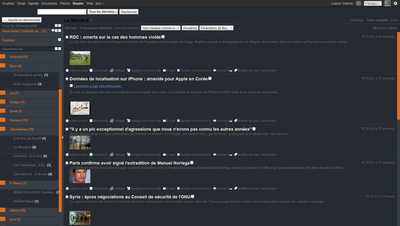
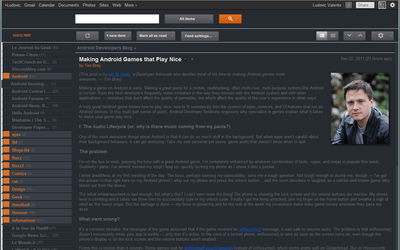
metro

diff --git a/GoogleReaderPlus/src/skin/metro.js b/GoogleReaderPlus/src/skin/metro.js
@@ -8,30 +8,6 @@ Author: ludoo
 Date : 08/03/11
 */
 GRP.metro = function(prefs, langs, ID, SL, lang) {
-	var css = '*{font-family:Segoe, Helvetica, sans-serif!important}';
-	css += '.scroll-tree .icon, .scroll-tree .favicon{display:none;}';
-	css += 'body,span.name, span.name-text, .scroll-tree li a.name-unread{color:#F1EFE2!important;}';
-	css += 'li.folder > a.link{background-color: #373E46;}';
-	css += 'li.folder > a.link .name, li.folder > a.link span.name-text{color:#de6f28 ! important;}';
-	css += '.scroll-tree li a {padding-bottom: 15px;border-bottom: solid 1px #151a20;border-top: solid 1px #44494f;}';
-	css += '.scroll-tree li a:hover, #lhn-selectors .selector:hover{background-color: #373E46!important;}';
-	css += '.scroll-tree .toggle{background: #de6f28;}';
-	css += '.entry {padding:0 !important;}';
-	css += '#chrome {border-left: 0px;}';
-	css += '.entry, #viewer-top-controls, #entries.list .entry {border-bottom: solid 1px #151a20 !important;border-top: solid 1px #44494f;}';
-	css += '.entry .card{margin:0;-webkit-border-radius: none;-webkit-box-shadow:none;}';
-	css += '.subscribe-button{background:none;}';
-	css += '::-webkit-scrollbar{width:12px;height:12px}::-webkit-scrollbar-track{background-color:#373e46;}::-webkit-scrollbar-thumb{background-color:#de6f28;-webkit-border-radius:0px;}';
-	css += '#chrome-lhn-toggle, .fullscreen #chrome-fullscreen-top-toggle {background:#373E46;border:0;}';
-	css += '#chrome-lhn-toggle:hover, .fullscreen #chrome-fullscreen-top-toggle:hover {background:#67686C;border:0;}';
-	css += '#chrome-lhn-toggle #chrome-lhn-toggle-icon {border-color: #67686C #F1EFE2 #67686C #67686C;}';
-	css += '#chrome-lhn-toggle:hover #chrome-lhn-toggle-icon {border-color: #F1EFE2 #67686C #F1EFE2 #F1EFE2;}';
-	css += 'body,#chrome-title a, #chrome-title .chevron {color: #67686C;}';
-	css += '#chrome.page-view #viewer-page-container, .tab-contents, .tab-group, .bundle-container {background-color: #262B31;}';
-	css += 'a, a:visited, .link{color:#F1EFE2;}';
-	//new UI
-	css += '.card .card-bottom, #entries.list .entry .entry-actions{padding:0;border:0;}';
-
 /*
 +my theme : 
 text color: #67686C (gray)
@@ -39,11 +15,97 @@ link : Foreground: #F1EFE2 (white)
 author: #de6f28 (orange)
 BackgroundColor: #262B31 ()
 */
+	var C={
+		orange:'#DE6F28',
+		dark_orange: '#CD5A06',
+		white: '#F1EFE2',
+		//button
+		gray:'#67686C',
+		light_gray:'#CCC',
+		dark_gray:'#4D4E51',
+		bg: '#262B31'	
+	}
+	
+	var css = '*{font-family:Segoe, Helvetica, sans-serif!important}';
+	css += '.scroll-tree .icon, .scroll-tree .favicon{display:none;}';
+	css += 'body,span.name, div.name-text, .scroll-tree li a.name-unread{color:'+C.white+'!important;}';
+	css += 'div.name-text{margin-left: 30px;}';
+	css += 'li.folder > a.link{background-color: #373E46;}';
+	css += 'li.folder > a.link .name, li.folder > a.link div.name-text{color:'+C.orange+' ! important;}';
+	css += '.scroll-tree li a {/*padding-bottom: 15px;*/border-bottom: solid 1px #151a20;border-top: solid 1px #44494f;}';
+	css += '.scroll-tree li a:hover, #lhn-selectors .selector:hover{background-color: #373E46!important;}';
+	css += '.scroll-tree .toggle{background:'+C.orange+';}';
+	css += '.entry {padding:0 !important;}';
+	css += '#chrome {border-left: 0px;}';
+//	css += '.entry, #viewer-top-controls, #entries.list .entry {border-bottom: solid 1px #151a20 !important;border-top: solid 1px #44494f;}';
+	css += '.entry .card{margin:0;-webkit-border-radius: none;-webkit-box-shadow:none;}';
+	css += '.subscribe-button{background:none;}';
+	css += '::-webkit-scrollbar{width:12px;height:12px}::-webkit-scrollbar-track{background-color:#373e46;}::-webkit-scrollbar-thumb{background-color:;-webkit-border-radius:0px;}';
+	css += '#chrome-lhn-toggle, .fullscreen #chrome-fullscreen-top-toggle {background:#373E46;border:0;}';
+	css += '#chrome-lhn-toggle:hover, .fullscreen #chrome-fullscreen-top-toggle:hover {background:'+C.gray+';border:0;}';
+	css += '#chrome-lhn-toggle #chrome-lhn-toggle-icon {border-color: '+C.gray+' '+C.white+' '+C.gray+' '+C.gray+';}';
+	css += '#chrome-lhn-toggle:hover #chrome-lhn-toggle-icon {border-color: '+C.white+' '+C.gray+' '+C.white+' '+C.white+';}';
+	css += 'body,#chrome-title a, #chrome-title .chevron {color: '+C.gray+';}';
+	css += '#chrome.page-view #viewer-page-container, .tab-contents, .tab-group, .bundle-container {background-color: #262B31;}';
+	css += 'a, a:visited, .link{color:'+C.white+';}';
+	//new UI
+	css += '.card .card-bottom, #entries.list .entry .entry-actions{padding:0;border:0;}';
+	css += '.jfk-button-primary,.jfk-button-primary.jfk-button-hover{background:transparent;color:'+C.orange+'! important;box-shadow:none;-webkit-box-shadow:none;border:none;}';
+	css += '.jfk-button-primary.jfk-button-hover{font-weight:bold;}';
+
+	css += '.goog-inline-block,.jfk-button-standard {color: white !important;}';
+	css += '.jfk-button-standard, .goog-flat-menu-button, .goog-button-base-inner-box{background-color: '+C.gray+';background-image: -webkit-linear-gradient(top,'+C.gray+','+C.dark_gray+');border: 1px solid '+C.dark_gray+';}';
+	css += '.jfk-button-standard.jfk-button-checked{background-color: '+C.light_gray+' !important;background-image: -webkit-linear-gradient(top,'+C.light_gray+','+C.gray+') !important;border: 1px solid '+C.gray+' !important;}';
+	css += '.goog-flat-menu-button.goog-flat-menu-button-hover, .jfk-button-standard.jfk-button-hover, .jfk-button-standard.jfk-button-clear-outline.jfk-button-hover, .goog-flat-menu-button.goog-flat-menu-button-hover, .goog-button-base:hover .goog-button-base-inner-box{background-color: '+C.gray+';background-image: -webkit-linear-gradient(top,'+C.gray+',#616161);border: 1px solid #6E6F61;color: white !important;}';
+
+	css += '.goog-flat-menu-button.goog-flat-menu-button-open, .goog-flat-menu-button.goog-flat-menu-button-active{background-color: '+C.gray+';background-image: -webkit-linear-gradient(top,'+C.gray+','+C.dark_gray+');border: 1px solid '+C.dark_gray+';}';
+	css += '.goog-flat-menu-button,.goog-flat-menu-button-focused{border-color:'+C.dark_gray+' !important;}';
+	
+	css += '.goog-menu,.gbmc{background-image: -webkit-linear-gradient(top,'+C.gray+','+C.dark_gray+');}';
+	css += '.goog-menuitem-highlight, .goog-menuitem-hover {background-color: '+C.light_gray+';border-color: '+C.light_gray+';}';
+	css += '.goog-menuitem, .goog-tristatemenuitem, .goog-filterobsmenuitem {color: '+C.white+';}';
+	
+	css += '.goog-button-base:hover .goog-button-base-content, .goog-button-base:focus .goog-button-base-content {	color: '+C.white+'}';
+	css += '.goog-button-base-outer-box {border-top: 1px solid '+C.dark_gray+' !important;border-bottom: 1px solid '+C.dark_gray+' !important;}';
+
+	css += '.jfk-button-action {background-color: '+C.orange+';background-image: -webkit-linear-gradient(top,'+C.orange+','+C.dark_orange+');border: 1px solid '+C.dark_orange+';}';
+	css += '.jfk-button-action.jfk-button-hover {background-color: #357AE8;background-image: -webkit-linear-gradient(top,'+C.orange+',#984A17);border: 1px solid #984A17;}';
+	
+	css += '.gbmt, .gbml1, .gbmt:visited, .gbml1:visited {color: '+C.white+' !important;}';
+	css += '.gbmt-hvr, .gbmt:focus {background: '+C.light_gray+'; color: '+C.white+' !important;}';
+	
+	css += '#lhn-selectors .selected a span, #lhn-selectors .selected a:hover span {color: '+C.dark_orange+';}';
+
+var ICONS_PATH = 'http://googlereaderplus.googlecode.com/svn/trunk/GoogleReaderPlus/images/toolbar/white/';
+
+function setIcon(root, img, i){
+	var el = root;
+	if (el && typeof el === 'string'){
+		el = get_id(el);
+	}
+	if (el && (typeof i !== 'undefined')){
+		el=el.children[i];
+	}
+	if (el && el.firstChild){
+		el.firstChild.src=ICONS_PATH+img+'.png';
+	}
+}
+
+setIcon('viewer-refresh', '681661618-refresh');
+var svoc = get_id('stream-view-options-container');
+setIcon(svoc, '138769644-magnifying_glass', 0);
+setIcon(svoc, '3538434020-view_options_details', 1);
+setIcon(svoc, '3369744051-view_options_list', 2);
+
+setIcon('entries-up', '3172090053-down_arrow');
+setIcon('entries-down', '3978377008-up_arrow');
+setIcon('settings-button', '345992534-settings',0);
+
 	GRP.mytheme({
-        theme_color: '#67686C' ,
-        theme_link: '#F1EFE2' ,
-        theme_author: '#de6f28' ,
-        theme_bg : '#262B31' 
+        theme_color: C.gray ,
+        theme_link: C.white ,
+        theme_author: C.orange ,
+        theme_bg : C.bg  
 	});
 
 	GM_addStyle(css, 'rps_'+ID);
